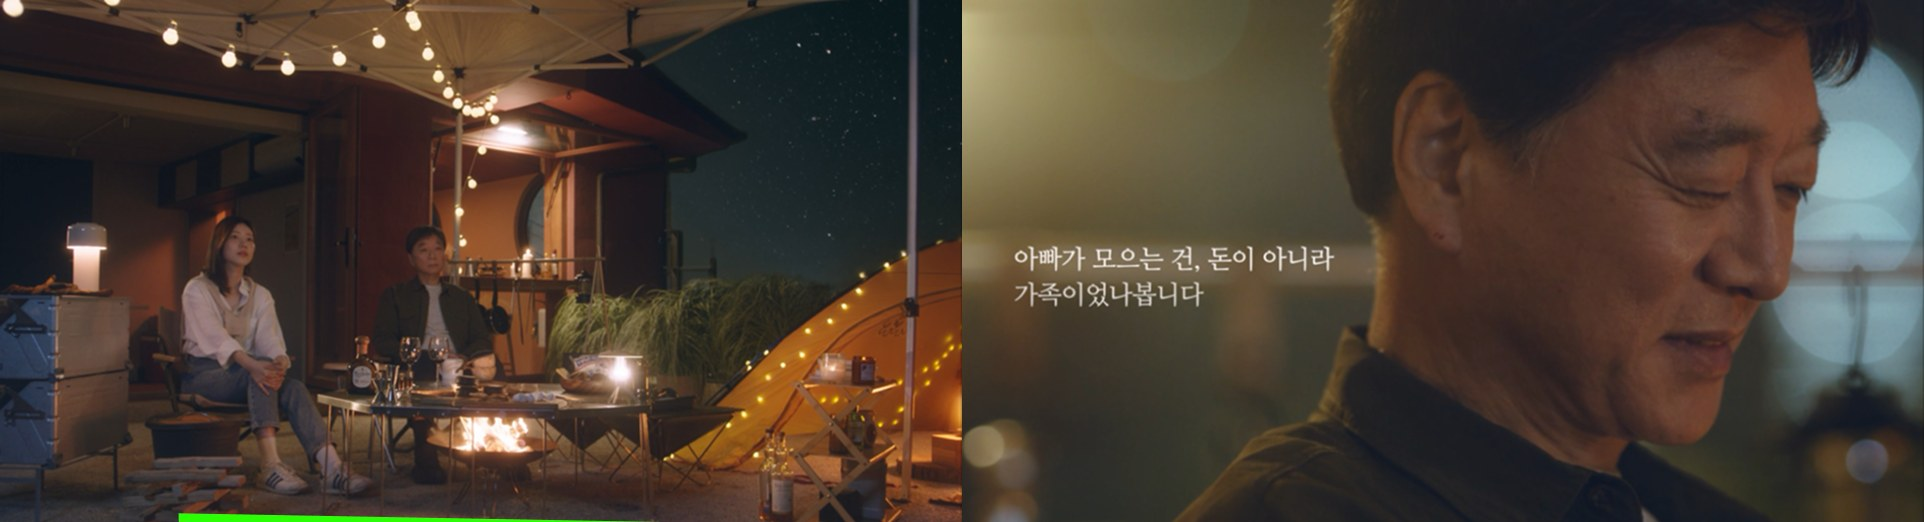
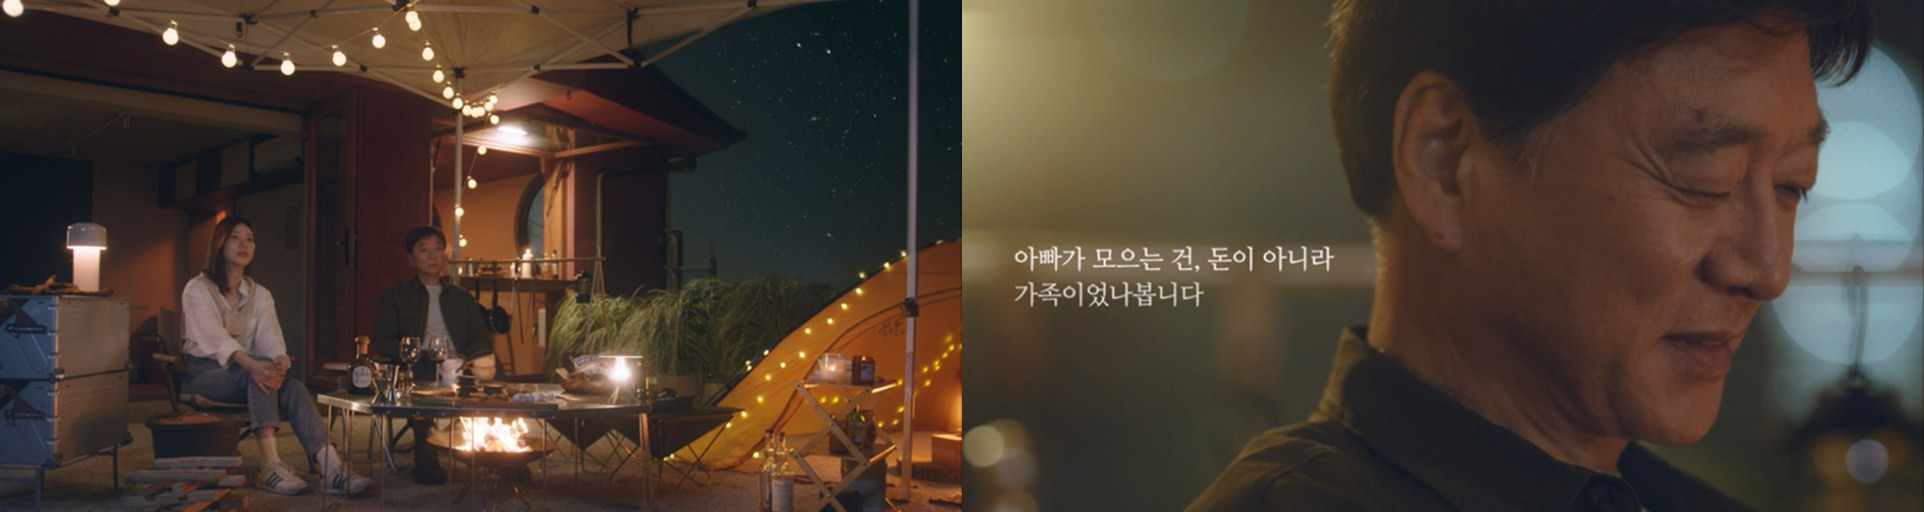
수강생 작품 스틸 전량 피그마 원본으로 교체 + 배너 비율 피그마 실측 적용
- w1a~w3b·w4a~w4c·w4phone 에 초록 배너 조각이 구워져 있던 문제
  → 피그마 노드(3398:414/416/424/426/433/435/441/442/443/444)에서 직접 재추출
  → 초록 픽셀 0개 확인. 원본은 assets/works/_원본_초록띠포함/ 에 보관
- 폰 목업은 하단 베젤까지 온전한 원본으로 교체, WebP(108KB)+PNG 폴백
- 배너: 제목 PNG 가 width:auto 라 --u 배율을 안 타서 높이가 피그마보다 20~30% 낮았다
  → --bw/--bh/--tw 로 회전 전 박스를 개별 지정, flex 세로중앙
  → AABB 1470.5x443.5 / 1458.4x395.9 / 1463.6x326.3 (피그마와 0.5 이내 일치)

diff --git a/index.html b/index.html
@@ -175,10 +175,10 @@
 
     <article class="work">
       <div class="stills two">
-        <img src="assets/works/w1a.jpg" width="960" height="548" loading="lazy" alt="The Joyfools - Loser’s Love 뮤직비디오 스틸컷 1">
-        <img src="assets/works/w1b.jpg" width="960" height="548" loading="lazy" alt="The Joyfools - Loser’s Love 뮤직비디오 스틸컷 2">
+        <img src="assets/works/w1a.jpg" width="1440" height="823" loading="lazy" alt="The Joyfools - Loser’s Love 뮤직비디오 스틸컷 1">
+        <img src="assets/works/w1b.jpg" width="1440" height="823" loading="lazy" alt="The Joyfools - Loser’s Love 뮤직비디오 스틸컷 2">
       </div>
-      <div class="banner">
+      <div class="banner" style="--bw:1462.9;--bh:414.4;--tw:935">
         <h3><img src="assets/works/title-w1-joyfools.png" width="935" height="102" loading="lazy" alt="2024 BCU 콘텐츠리그 대상 수상"></h3>
         <p class="wsub">The Joyfools-Loser’s Love (Official Music Video)</p>
       </div>
@@ -187,10 +187,10 @@
 
     <article class="work">
       <div class="stills two">
-        <img src="assets/works/w2a.jpg" width="960" height="548" loading="lazy" alt="김복남 맥주 광고 영상 스틸컷 1">
-        <img src="assets/works/w2b.jpg" width="960" height="548" loading="lazy" alt="김복남 맥주 광고 영상 스틸컷 2">
+        <img src="assets/works/w2a.jpg" width="1440" height="823" loading="lazy" alt="김복남 맥주 광고 영상 스틸컷 1">
+        <img src="assets/works/w2b.jpg" width="1440" height="823" loading="lazy" alt="김복남 맥주 광고 영상 스틸컷 2">
       </div>
-      <div class="banner">
+      <div class="banner" style="--bw:1451.7;--bh:366.9;--tw:1226">
         <h3><img src="assets/works/title-w2-kimboknam.png" width="1226" height="101" loading="lazy" alt="생맥주 프랜차이즈 광고 영상 공모전 대상 수상"></h3>
         <p class="wsub">BRAND - 김복남 맥주 Kimboknam Beer</p>
       </div>
@@ -199,10 +199,10 @@
 
     <article class="work">
       <div class="stills two">
-        <img src="assets/works/w3a.jpg" width="960" height="548" loading="lazy" alt="제11회 신한 29초영화제 최우수상 수상작 스틸컷 1">
-        <img src="assets/works/w3b.jpg" width="960" height="548" loading="lazy" alt="제11회 신한 29초영화제 최우수상 수상작 스틸컷 2">
+        <img src="assets/works/w3a.jpg" width="1440" height="823" loading="lazy" alt="제11회 신한 29초영화제 최우수상 수상작 스틸컷 1">
+        <img src="assets/works/w3b.jpg" width="1440" height="823" loading="lazy" alt="제11회 신한 29초영화제 최우수상 수상작 스틸컷 2">
       </div>
-      <div class="banner short">
+      <div class="banner short" style="--bw:1458.3;--bh:297.2;--tw:1077">
         <h3><img src="assets/works/title-w3-shinhan.png" width="1077" height="102" loading="lazy" alt="제 11회 신한 29초영화제 최우수상 수상"></h3>
       </div>
       <p class="credit">* FVA 8기 [남OO, 김OO, 김OO, 김OO, 김OO, 오OO] 수강생 작품</p>
@@ -210,12 +210,15 @@
 
     <article class="work">
       <div class="stills phone">
-        <img class="s1" src="assets/works/w4a.jpg" width="479" height="854" loading="lazy" alt="얌샘김밥 숏폼 광고 스틸컷 1">
-        <img class="s2" src="assets/works/w4b.jpg" width="479" height="854" loading="lazy" alt="얌샘김밥 숏폼 광고 스틸컷 2">
-        <img class="ph" src="assets/works/w4phone.png" width="563" height="1076" loading="lazy" alt="얌샘김밥 숏폼 영상 — 세로 화면">
-        <img class="s3" src="assets/works/w4c.jpg" width="481" height="854" loading="lazy" alt="얌샘김밥 숏폼 광고 스틸컷 3">
+        <img class="s1" src="assets/works/w4a.jpg" width="920" height="1641" loading="lazy" alt="얌샘김밥 숏폼 광고 스틸컷 1">
+        <img class="s2" src="assets/works/w4b.jpg" width="920" height="1641" loading="lazy" alt="얌샘김밥 숏폼 광고 스틸컷 2">
+        <picture class="ph">
+          <source srcset="assets/works/w4phone.webp" type="image/webp">
+          <img src="assets/works/w4phone.png" width="1126" height="2152" loading="lazy" alt="얌샘김밥 숏폼 영상 — 세로 화면">
+        </picture>
+        <img class="s3" src="assets/works/w4c.jpg" width="920" height="1634" loading="lazy" alt="얌샘김밥 숏폼 광고 스틸컷 3">
       </div>
-      <div class="banner">
+      <div class="banner" style="--bw:1451.7;--bh:366.9;--tw:1162">
         <h3><img src="assets/works/title-w4-yamsem.png" width="1162" height="102" loading="lazy" alt="김밥 프랜차이즈 숏폼 영상 공모전 대상 수상"></h3>
         <p class="wsub">BRAND - 얌샘김밥</p>
       </div>

diff --git a/css/style.css b/css/style.css
@@ -311,30 +311,35 @@ body > main{ max-width:calc(1920px + 2 * var(--gutter)); margin-inline:auto }
 .work .stills.phone .s1,
 .work .stills.phone .s2,
 .work .stills.phone .s3{ aspect-ratio:479/854; object-fit:cover }
-.work .stills.phone .s3{ grid-column:4 }
+.work .stills.phone .s3{ grid-column:4; aspect-ratio:481/854 }
 .work .stills.phone .ph{
   position:absolute; z-index:2;
-  left:calc(921/1920 * 100%);
-  width:calc(563/1920 * 100%);
+  left:calc(921.3/1920 * 100%);
+  width:calc(562.7/1920 * 100%);
   top:0;
+  display:block;
 }
+.work .stills.phone .ph img{ width:100%; height:auto; display:block }
 
-/* 초록 배너 — 좌측 179.6, 폭 1458.75. 살짝 기울어져 있다 */
+/* 초록 배너 — 피그마 실측. 회전 전 박스 크기를 --bw/--bh 로 개별 지정한다.
+   (AABB 에서 rotate(1.15°) 를 역산한 값. 제목 PNG 는 --tw 로 --u 배율을 태운다) */
 .work .banner{
   position:relative; z-index:3;
-  width:calc(var(--u) * 1458.75/1920);
+  width:calc(var(--u) * var(--bw,1451.7)/1920);
+  aspect-ratio:var(--bw,1451.7) / var(--bh,366.9);
   margin-inline:auto;                    /* 완전 중앙정렬 */
   margin-top:calc(var(--u) * -60/1920);
   background:var(--green);
   transform:rotate(-1.15deg);
-  padding:calc(var(--u) * 46/1920) calc(var(--u) * 40/1920) calc(var(--u) * 52/1920);
+  padding-inline:calc(var(--u) * 40/1920);
+  display:flex; flex-direction:column; justify-content:center; align-items:center;
   text-align:center;
 }
-.work .banner.short{ padding-bottom:calc(var(--u) * 46/1920) }
 .work .banner h3{ line-height:0 }
 .work .banner h3 img{
-  display:inline-block; width:auto; height:auto;
-  max-width:min(100%, calc(var(--u) * 1226/1920));
+  display:block; height:auto;
+  width:calc(var(--u) * var(--tw,1226)/1920);
+  max-width:100%;
 }
 .work .wsub{
   margin-top:calc(var(--u) * 22/1920);
